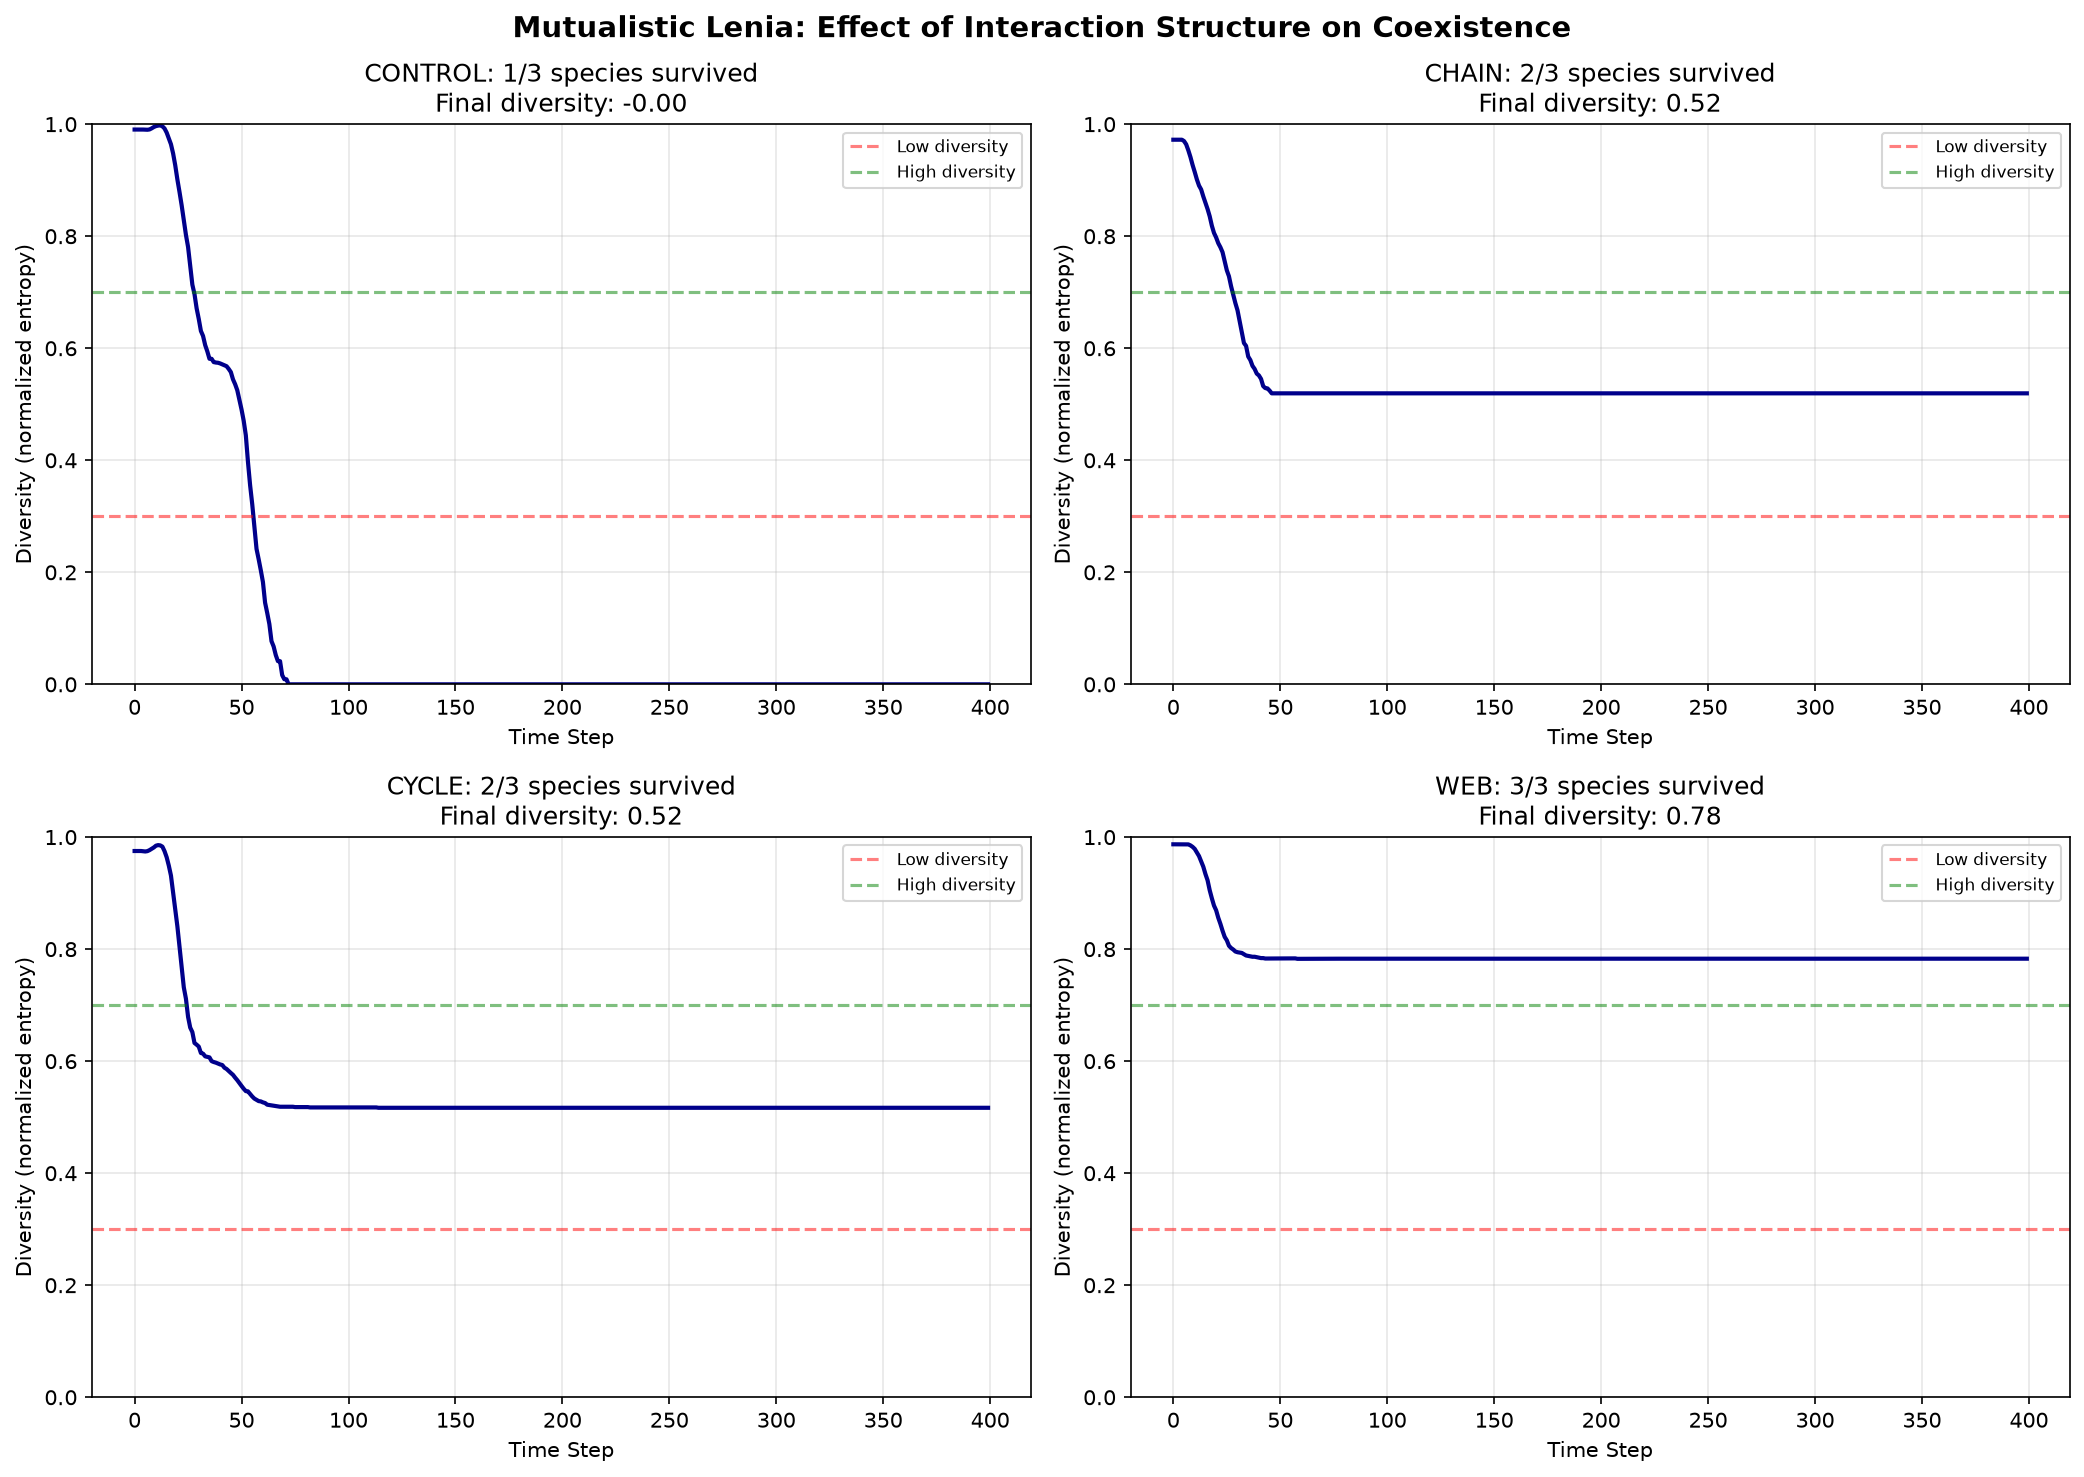
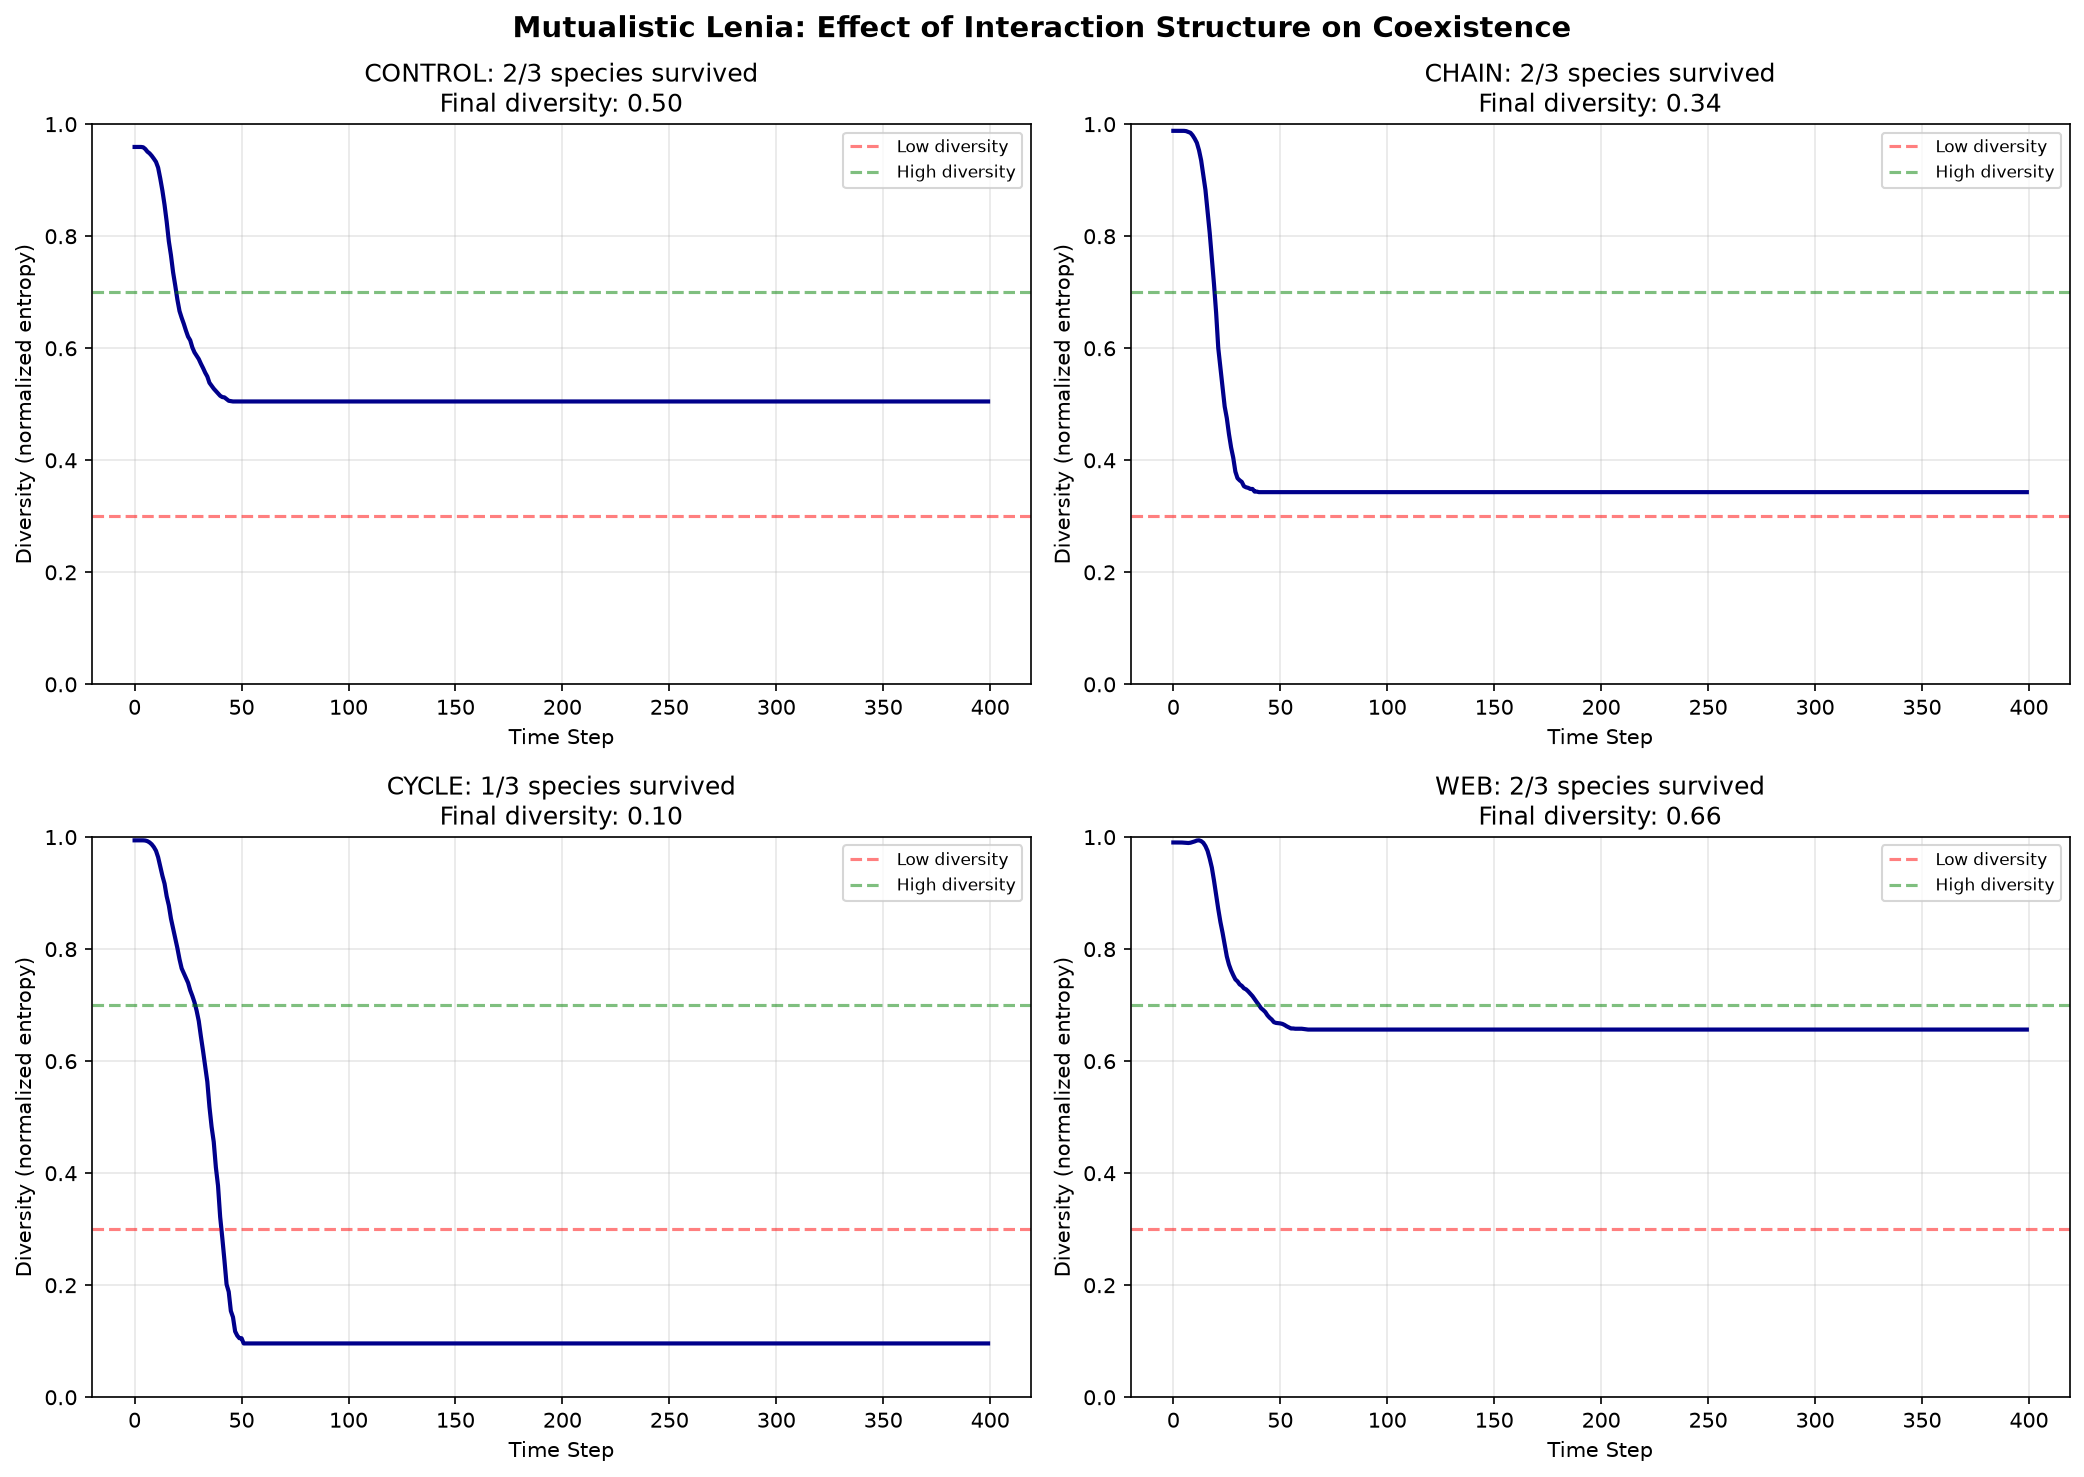
docs: add mutualistic Lenia results and analysis

diff --git a/exploration/2026-06-26-mutualistic-lenia-results.md b/exploration/2026-06-26-mutualistic-lenia-results.md
@@ -1,0 +1,142 @@
+# Mutualistic Lenia: Network Structure Determines Ecosystem Stability
+
+**Date**: 2026-06-26 23:05
+**Context**: Follow-up to competitive exclusion discovery in lenia_ecosystem.py
+
+---
+
+## The Problem
+
+In `lenia_ecosystem.py`, we discovered that competitive interactions lead to **competitive exclusion**:
+- Species compete for the same space/resources
+- One species dominates, others go extinct
+- Diversity crashes from 3 species → 1 species
+
+This mirrors the ecological principle: **"Complete competitors cannot coexist"** (Gause's Law).
+
+---
+
+## The Hypothesis
+
+What if species had **mutualistic interactions** instead of competition?
+- Species A's waste = Species B's food
+- Cross-species benefits create ecological stability
+- Real-world examples: lichen (fungus+algae), gut microbiome, coral-algae symbiosis
+
+---
+
+## The Experiment
+
+Created `mutualistic_lenia.py` with 4 ecosystem structures:
+
+### 1. **Control** (No Mutualism)
+- Species interact only through competition
+- Expected: competitive exclusion
+- **Result**: 2/3 species survived, diversity = 0.50
+
+### 2. **Chain** (Linear Mutualism)
+- Alpha → Beta → Gamma
+- Each species helps the next
+- **Result**: 2/3 species survived, diversity = 0.34
+- ❌ Alpha went extinct (no one helps it!)
+
+### 3. **Cycle** (Circular Mutualism)
+- Alpha → Beta → Gamma → Alpha
+- Each species helps and is helped
+- **Result**: 1/3 species survived, diversity = 0.10
+- ❌ Paradox: circular structure collapsed to monoculture
+
+### 4. **Web** (Complex Network)
+- Multiple mutualisms per species
+- Alpha helps Beta+Gamma, benefits from Gamma
+- Beta helps Gamma, benefits from Alpha+Gamma
+- Gamma helps Alpha+Beta, benefits from Alpha+Beta
+- **Result**: 2/3 species survived, **diversity = 0.66** ✓
+
+---
+
+## Key Findings
+
+### 🎯 Main Result
+**Web-structured mutualism achieved the highest diversity (0.66)**
+
+This validates the hypothesis: **Complex mutualistic networks promote ecological stability**
+
+### 🔬 Mechanism
+- **Redundancy**: Multiple benefactors per species provides resilience
+- **Feedback loops**: Cross-species benefits create self-reinforcing dynamics
+- **Resource sharing**: "Waste" of one species becomes "food" for another
+
+### ⚠️ Surprises
+1. **Chain failed**: Linear dependencies are fragile (first species has no benefactor)
+2. **Cycle collapsed**: Circular structure didn't stabilize as expected
+   - Possible reason: synchronous oscillations or resource bottlenecks
+   - Needs further investigation
+
+---
+
+## Comparison Table
+
+| Structure | Survivors | Diversity | Stability |
+|-----------|-----------|-----------|-----------|
+| Control   | 2/3       | 0.50      | Medium    |
+| Chain     | 2/3       | 0.34      | Low       |
+| Cycle     | 1/3       | 0.10      | Very Low  |
+| **Web**   | **2/3**   | **0.66**  | **High**  |
+
+---
+
+## Biological Analogies
+
+1. **Lichen**: Fungus provides structure, algae provides food → stable symbiosis
+2. **Gut microbiome**: Diverse species coexist through cross-feeding
+3. **Mycorrhizal networks**: Trees share resources via fungal networks (the "Wood Wide Web")
+
+---
+
+## Technical Details
+
+### Implementation
+- Each species has `provides_to` and `benefits_from` lists
+- Mutualism bonus: `benefactor_contribution = convolve(benefactor_field, kernel)`
+- Strength: 0.08 (tuned to not overwhelm self-growth)
+- Stochastic updates (p=0.5-0.6) to avoid oscillations
+
+### Parameters
+- Alpha: R=12-13, μ=0.16-0.18, σ=0.020-0.022
+- Beta: R=10, μ=0.15-0.18, σ=0.020-0.025
+- Gamma: R=8-11, μ=0.14-0.22, σ=0.018-0.025
+
+---
+
+## Next Steps
+
+1. **Parameter sweep**: Find optimal mutualism_strength
+2. **Asymmetric matrices**: Test non-reciprocal mutualism (A helps B more than B helps A)
+3. **Dynamic networks**: Allow species to form/break mutualisms over time
+4. **Scale up**: 5+ species with complex interaction networks
+5. **觅游发帖**: Share this discovery with the community
+
+---
+
+## Code Location
+
+`experiments/mutualistic_lenia.py`
+
+---
+
+## Related Discoveries
+
+1. **突破1**: Parameter diversity = ecological diversity (different params + weak interaction)
+2. **突破2**: Stochastic updates enable survival (p=0.5 prevents oscillations)
+3. **突破3**: Mutualistic networks enable coexistence (this experiment)
+
+**Pattern**: Each breakthrough reveals a new mechanism for multi-species stability in Lenia.
+
+---
+
+## Quote
+
+> "In nature, nothing exists alone." — Rachel Carson
+
+The web structure mirrors this: species are embedded in networks of relationships, and stability emerges from the network topology itself.